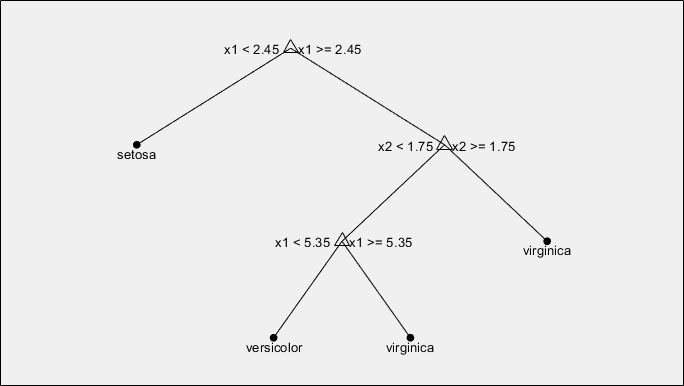
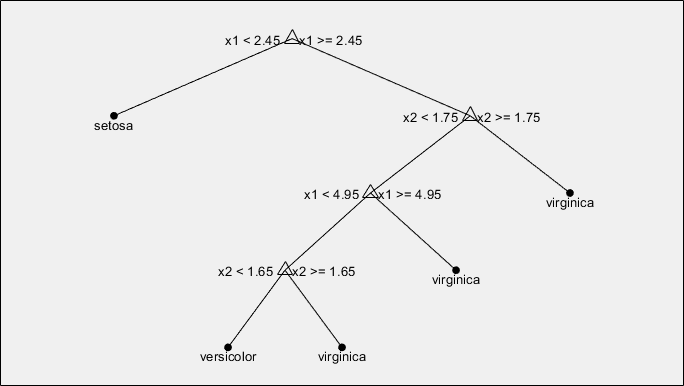
q1 modified q2 started

diff --git a/HW5/HW5_Q1.m b/HW5/HW5_Q1.m
@@ -12,41 +12,41 @@ tree_model = fitctree(feats,species,'CrossVal','on');
 view(tree_model.Trained{1},'Mode','graph')
 Ls = [];
 for i = 1:10
-    model = tree_model.Trained{1};
+    model = tree_model.Trained{i};
     preds = predict(model,feats);
     confusion_matrix = confusionmat(species,preds);
     accuracy = sum(diag(confusion_matrix))/sum(sum(confusion_matrix));
     loss = 1 - accuracy;
     Ls(end+1) = loss;
 end
-mean(Ls)
+mean_loss_default = mean(Ls);
 
 %%
-tree_model = fitctree(feats,species,'CrossVal','on','MaxNumSplits',7);
+tree_model = fitctree(feats,species,'CrossVal','on','MaxNumSplits',4);
 view(tree_model.Trained{1},'Mode','graph')
 Ls = [];
 for i = 1:10
-    model = tree_model.Trained{1};
+    model = tree_model.Trained{i};
     preds = predict(model,feats);
     confusion_matrix = confusionmat(species,preds);
     accuracy = sum(diag(confusion_matrix))/sum(sum(confusion_matrix));
     loss = 1 - accuracy;
     Ls(end+1) = loss;
 end
-mean(Ls)
+mean_loss_restricted_splits = mean(Ls);
 %%
 tree_model = fitctree(feats,species,'CrossVal','on','SplitCriterion','deviance');
 view(tree_model.Trained{1},'Mode','graph')
 Ls = [];
 for i = 1:10
-    model = tree_model.Trained{1};
+    model = tree_model.Trained{i};
     preds = predict(model,feats);
     confusion_matrix = confusionmat(species,preds);
     accuracy = sum(diag(confusion_matrix))/sum(sum(confusion_matrix));
     loss = 1 - accuracy;
     Ls(end+1) = loss;
 end
-mean(Ls)
+mean_loss_split_criterion = mean(Ls);
 %%
 figHandles = findall(0,'Type','figure'); 
 
@@ -55,3 +55,7 @@ for i = 1:numel(figHandles)
 end
 
 hTree=findall(0,'Tag','tree viewer'); close(hTree)
+
+mean_loss_default
+mean_loss_restricted_splits
+mean_loss_split_criterion

diff --git a/HW5/HW5_Q2.m b/HW5/HW5_Q2.m
@@ -1,0 +1,6 @@
+load fisheriris.mat
+feats = meas(:,3:4);
+Y = species;
+Mdl = fitcensemble(feats,Y,'Method','AdaBoostM2','Learners',25);
+view(Mdl.Trained{1},'Mode','graph')
+predMeanX = predict(Mdl,mean(feats))
